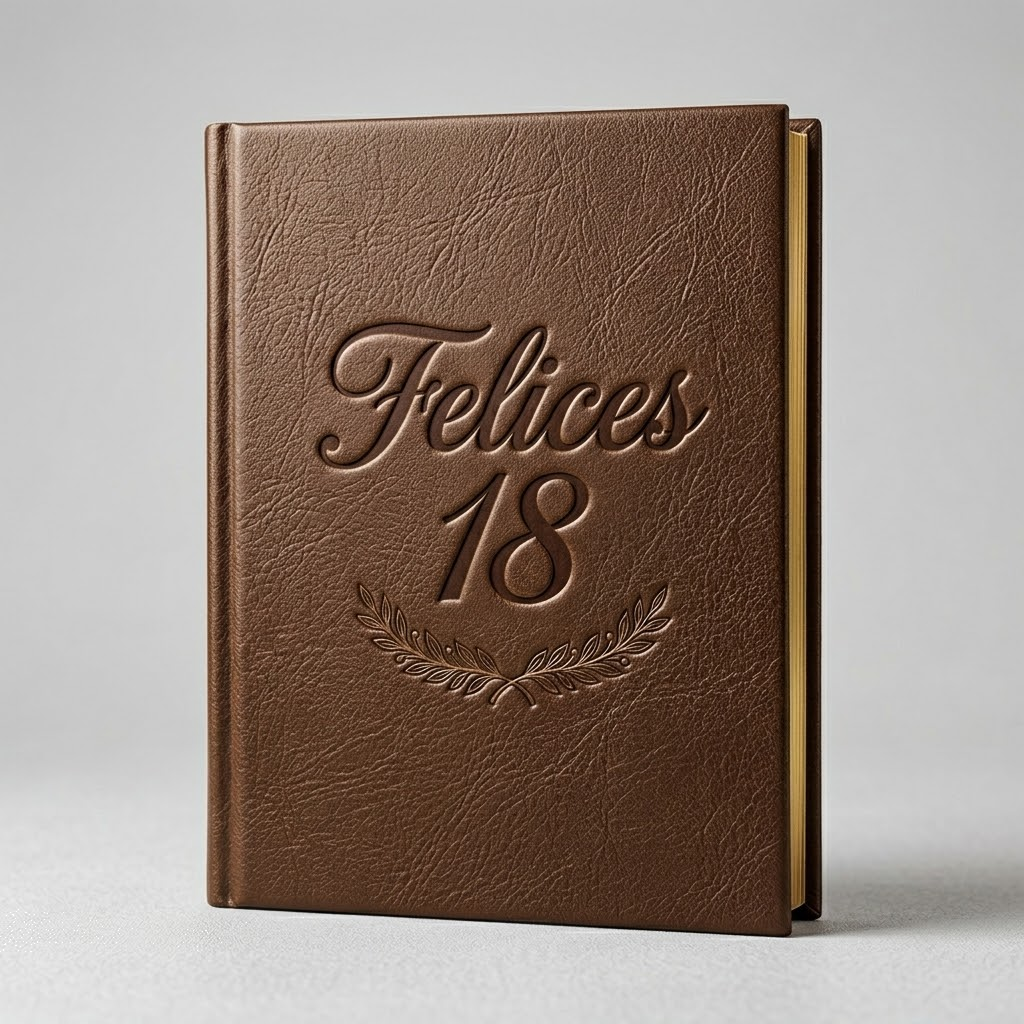
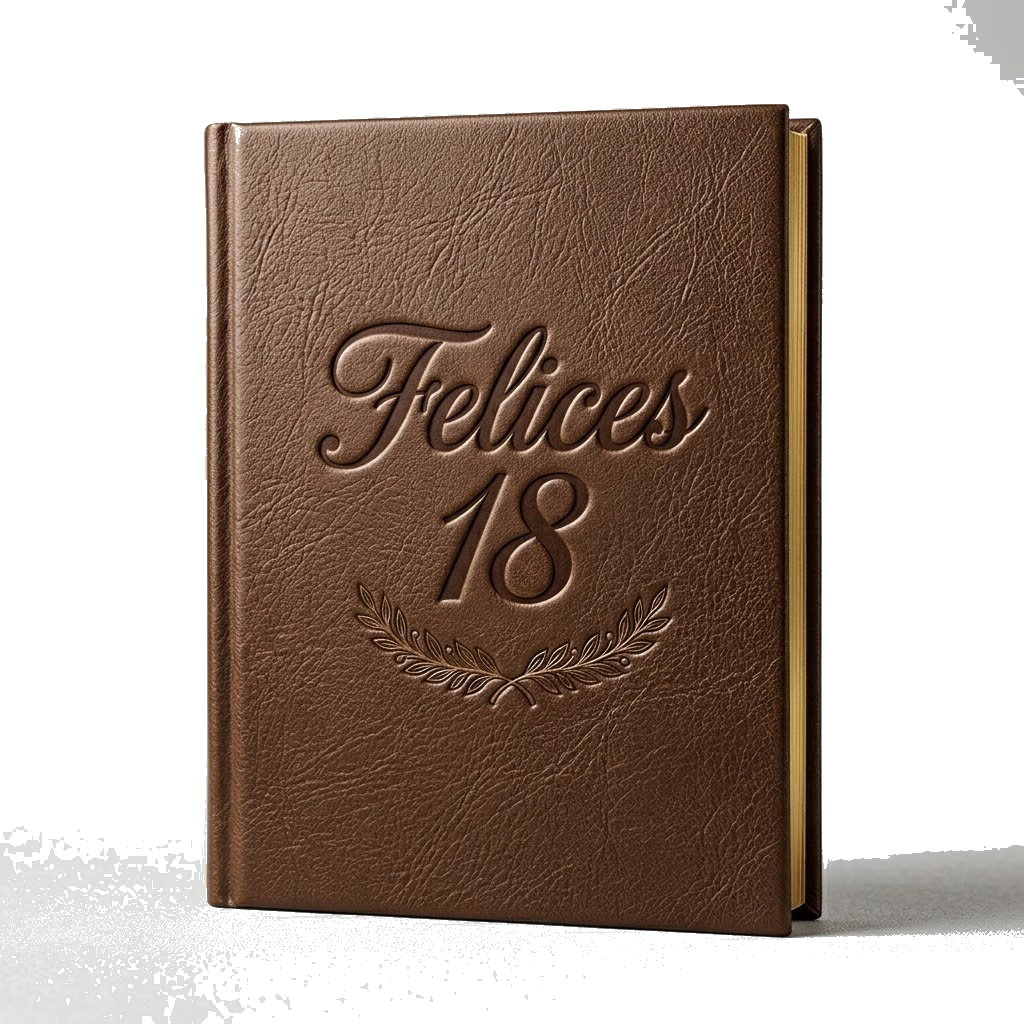
🔧 Cofre más grande + fondo libro eliminado correctamente

diff --git a/index.html b/index.html
@@ -405,7 +405,7 @@ body.is-admin #main{padding-top:26px}
 
   <!-- SORPRESA ESQUINA SUPERIOR IZQUIERDA -->
   <div id="sorpresa-corner" onclick="openModal('m-sorpresa')">
-    <img src="/cofre.png" alt="Mensaje sorpresa" style="width:62px;height:62px;object-fit:contain;filter:drop-shadow(0 4px 10px rgba(107,76,69,.3));transition:transform .15s">
+    <img src="/cofre.png" alt="Mensaje sorpresa" style="width:82px;height:82px;object-fit:contain;filter:drop-shadow(0 4px 10px rgba(107,76,69,.3));transition:transform .15s">
     <div class="cofre-txt">Mensaje<br>sorpresa</div>
   </div>
 
